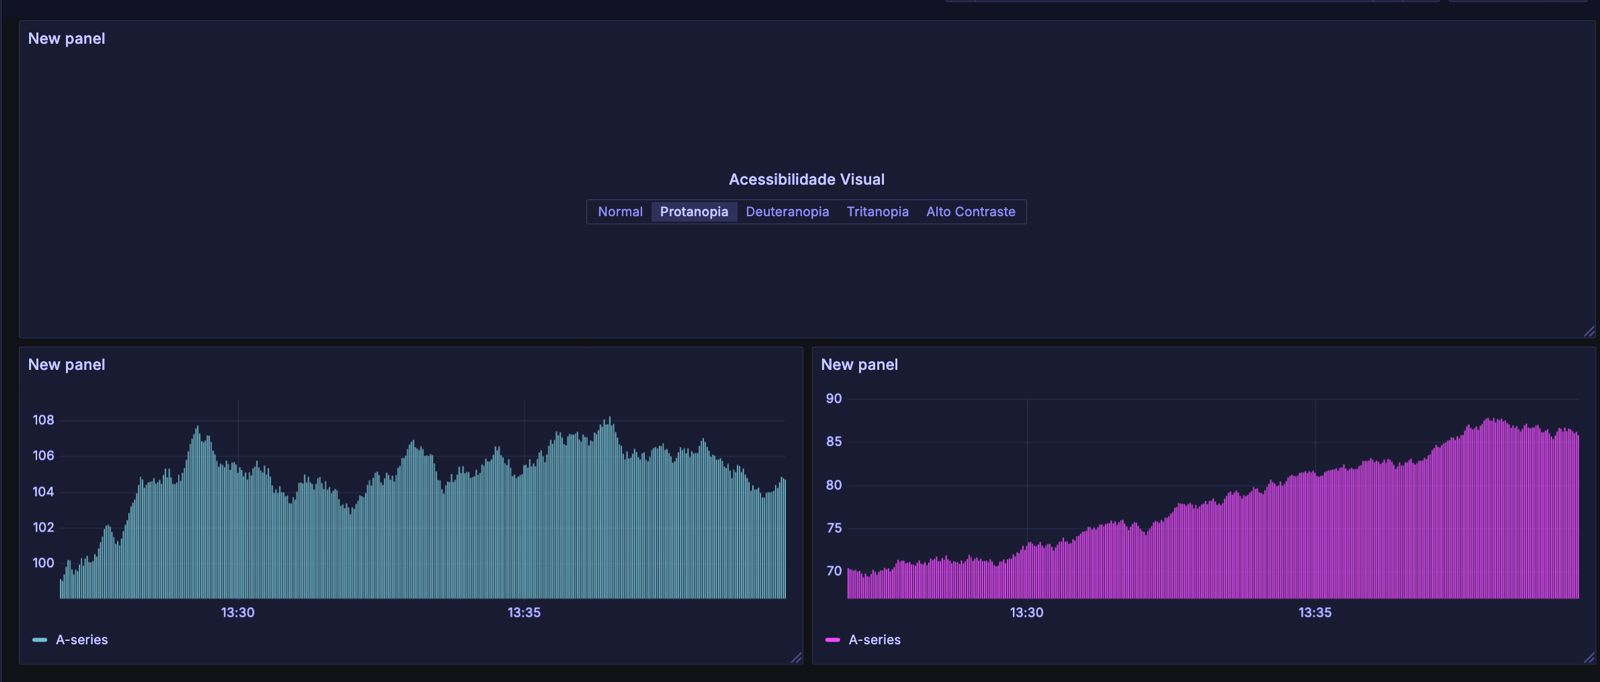
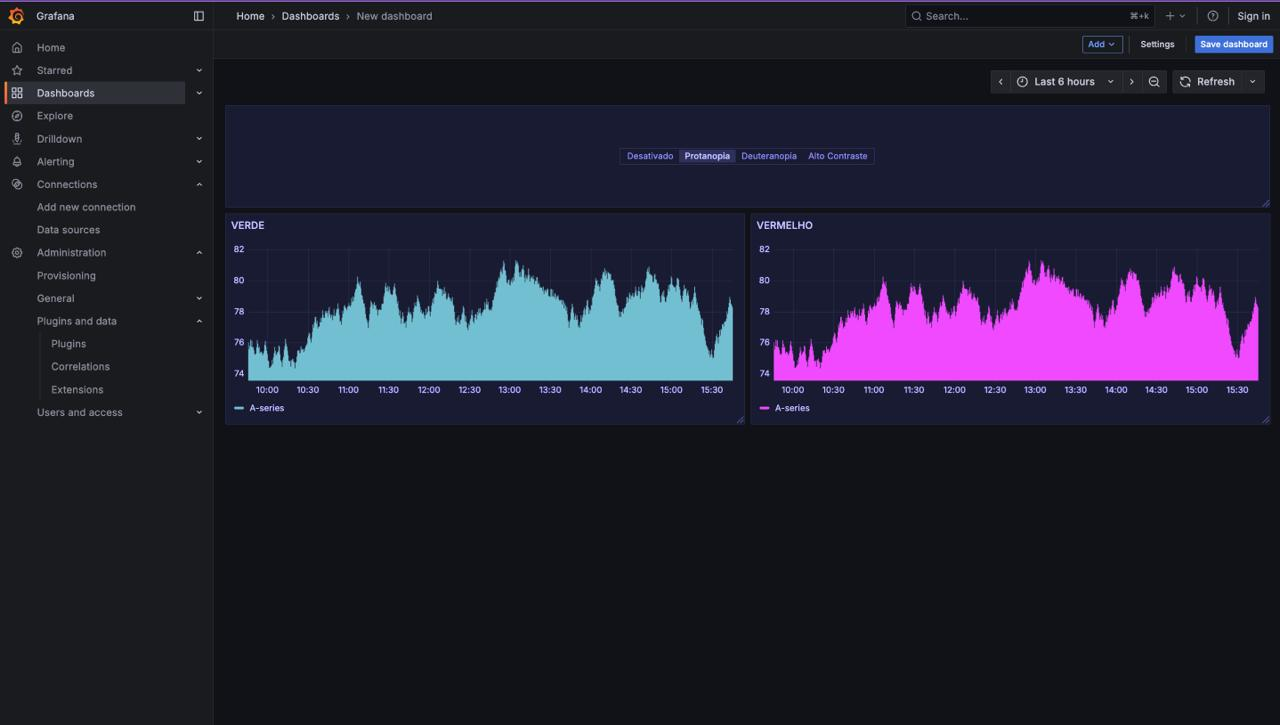
Update

diff --git a/src/components/SimplePanel.tsx b/src/components/SimplePanel.tsx
@@ -3,82 +3,89 @@ import { PanelProps } from '@grafana/data';
 import { SimpleOptions } from 'types';
 import { RadioButtonGroup } from '@grafana/ui';
 
-
 const FILTERS: Record<string, string | null> = {
-    normal: null,
-    protanopia: `1.0, 0.0, 0.0, 0, 0
+  desativado: null,
+  protanopia: `1.0, 0.0, 0.0, 0, 0
                0.0, 1.0, 0.0, 0, 0
                0.7, 0.0, 1.0, 0, 0  
                0,   0,   0,   1, 0`,
-    deuteranopia: `1.0, 0.0, 0.0, 0, 0
+  deuteranopia: `1.0, 0.0, 0.0, 0, 0
                  0.0, 0.0, 1.0, 0, 0 
                  0.0, 1.0, 0.0, 0, 0 
                  0,   0,   0,   1, 0`,
-    tritanopia: `1.0, 0.0, 0.5, 0, 0  
+  tritanopia: `1.0, 0.0, 0.5, 0, 0  
                0.0, 1.0, 0.0, 0, 0
                0.0, 0.0, 0.0, 0, 0  
                0,   0,   0,   1, 0`,
-    contrast: `2.0, -0.5, -0.5, 0, 0
+  contrast: `2.0, -0.5, -0.5, 0, 0
              -0.5, 2.0, -0.5, 0, 0
              -0.5, -0.5, 2.0, 0, 0
              0,    0,    0,   1, 0`
 };
 
 const OPTIONS = [
-    { label: 'Normal', value: 'normal' },
-    { label: 'Protanopia', value: 'protanopia' },
-    { label: 'Deuteranopia', value: 'deuteranopia' },
-    { label: 'Tritanopia', value: 'tritanopia' },
-    { label: 'Alto Contraste', value: 'contrast' },
+  { label: 'Desativado', value: 'desativado' },
+  { label: 'Protanopia', value: 'protanopia' },
+  { label: 'Deuteranopia', value: 'deuteranopia' },
+  { label: 'Alto Contraste', value: 'contrast' },
 ];
 
 interface Props extends PanelProps<SimpleOptions> {}
 
 export const SimplePanel: React.FC<Props> = ({ options, width, height }) => {
-    const [mode, setMode] = useState<string>(() => {
-        try { return localStorage.getItem('grafana-access-mode') || 'normal'; } catch { return 'normal'; }
-    });
+  const [mode, setMode] = useState<string>('desativado');
 
-    useEffect(() => {
-        localStorage.setItem('grafana-access-mode', mode);
+  useEffect(() => {
+    const dashboardContainer = document.querySelector<HTMLElement>('.react-grid-layout')
+      || document.querySelector<HTMLElement>('.main-view')
+      || document.querySelector<HTMLElement>('.dashboard-container');
 
-        const matrix = FILTERS[mode];
-        document.body.style.filter = matrix ? `url(#correction-filter-${mode})` : 'none';
-    }, [mode]);
+    if (dashboardContainer) {
+      const matrix = FILTERS[mode];
+      dashboardContainer.style.filter = matrix ? `url(#correction-filter-${mode})` : 'none';
+      dashboardContainer.style.transition = 'filter 0.3s ease';
+    }
 
-    return (
-        <div
-            style={{
-                width,
-                height,
-                display: 'flex',
-                flexDirection: 'column',
-                justifyContent: 'center',
-                alignItems: 'center',
-                padding: '10px',
-                overflow: 'hidden'
-            }}
-        >
-            <div style={{ marginBottom: '8px', fontWeight: '500' }}>Acessibilidade Visual</div>
+    return () => {
+      if (dashboardContainer) {
+        dashboardContainer.style.filter = 'none';
+        dashboardContainer.style.transition = '';
+      }
+    };
+  }, [mode]);
 
-            <RadioButtonGroup
-                options={OPTIONS}
-                value={mode}
-                onChange={(v) => setMode(v)}
-                size="sm"
-            />
+  return (
+    <div
+      style={{
+        width,
+        height,
+        display: 'flex',
+        flexDirection: 'column',
+        justifyContent: 'center',
+        alignItems: 'center',
+        padding: '10px',
+        overflow: 'hidden'
+      }}
+    >
 
-            <svg style={{ position: 'absolute', height: 0, width: 0, overflow: 'hidden' }}>
-                <defs>
-                    {Object.entries(FILTERS).map(([key, matrix]) => (
-                        matrix && (
-                            <filter id={`correction-filter-${key}`} key={key} colorInterpolationFilters="sRGB">
-                                <feColorMatrix in="SourceGraphic" type="matrix" values={matrix} />
-                            </filter>
-                        )
-                    ))}
-                </defs>
-            </svg>
-        </div>
-    );
+      <RadioButtonGroup
+        options={OPTIONS}
+        value={mode}
+        onChange={(v) => setMode(v!)}
+        size="sm"
+      />
+
+      <svg style={{ position: 'absolute', height: 0, width: 0, overflow: 'hidden' }}>
+        <defs>
+          {Object.entries(FILTERS).map(([key, matrix]) => (
+            matrix && (
+              <filter id={`correction-filter-${key}`} key={key} colorInterpolationFilters="sRGB">
+                <feColorMatrix in="SourceGraphic" type="matrix" values={matrix} />
+              </filter>
+            )
+          ))}
+        </defs>
+      </svg>
+    </div>
+  );
 };

diff --git a/tests/panel.spec.ts b/tests/panel.spec.ts
@@ -16,7 +16,7 @@ test('should display circle when data is passed to the panel', async ({
 }) => {
   const ds = await readProvisionedDataSource({ fileName: 'datasources.yml' });
   await panelEditPage.datasource.set(ds.name);
-  await panelEditPage.setVisualization('Grafanaaccessibilitycolorblind');
+  await panelEditPage.setVisualization('sogekng-grafanaaccessibilitycolorblind-panel');
   await expect(page.getByTestId('simple-panel-circle')).toBeVisible();
 });
 
@@ -27,7 +27,7 @@ test('should display series counter when "Show series counter" option is enabled
 }) => {
   const dashboard = await readProvisionedDashboard({ fileName: 'dashboard.json' });
   const panelEditPage = await gotoPanelEditPage({ dashboard, id: '1' });
-  const options = panelEditPage.getCustomOptions('Grafanaaccessibilitycolorblind');
+  const options = panelEditPage.getCustomOptions('sogekng-grafanaaccessibilitycolorblind-panel');
   const showSeriesCounter = options.getSwitch('Show series counter');
 
   await showSeriesCounter.check();

diff --git a/src/README.md b/src/README.md
@@ -2,7 +2,7 @@
 
 Remove any remaining comments before publishing as these may be displayed on Grafana.com -->
 
-# Grafanaaccessibilitycolorblind
+# sogekng-grafanaaccessibilitycolorblind-panel
 
 <!-- To help maximize the impact of your README and improve usability for users, we propose the following loose structure:
 
